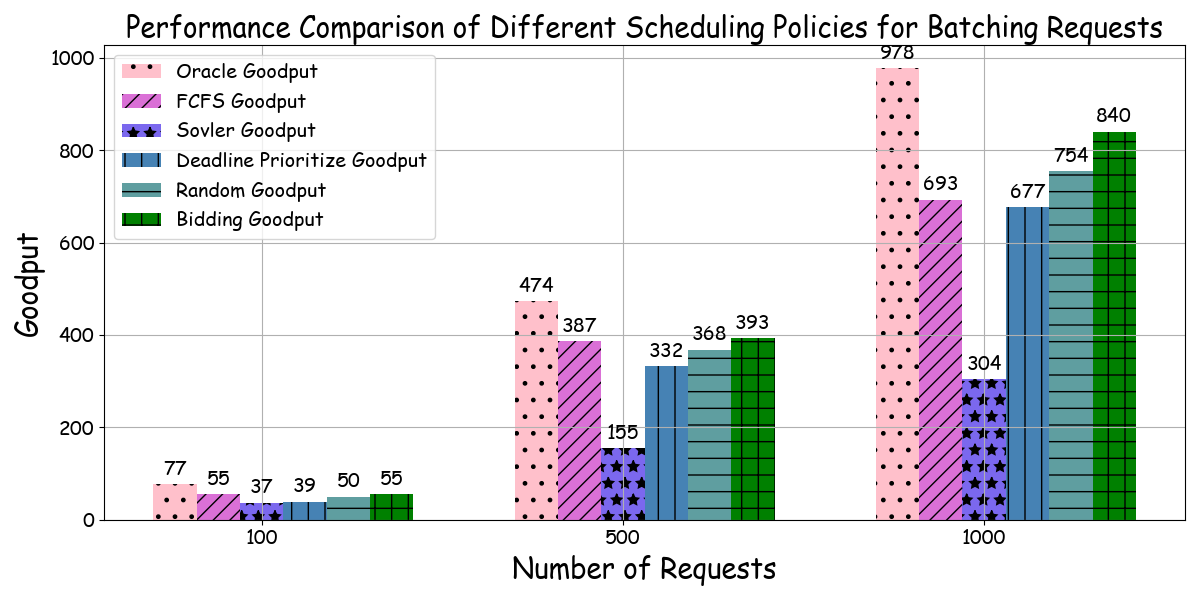
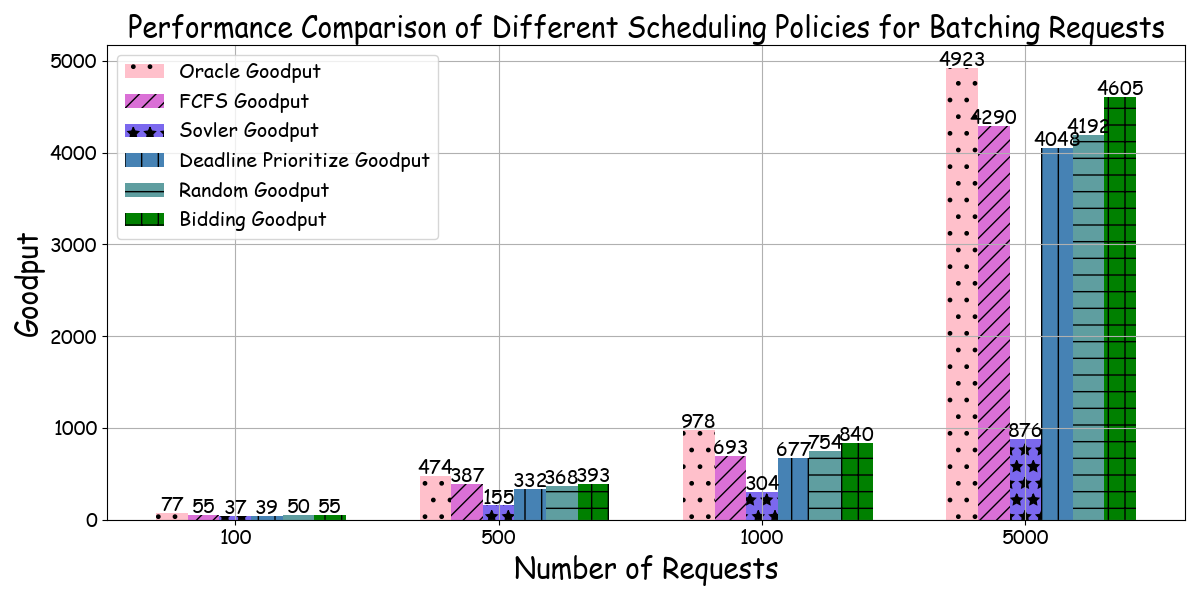
test more models

Changed region(s): [[0.0308, 0.03, 0.9867, 0.99], [0.0308, 0.09, 0.2775, 0.18], [0.0617, 0.84, 0.0925, 0.87]]

diff --git a/vllm_source/vllm/core/policy.py b/vllm_source/vllm/core/policy.py
@@ -93,12 +93,12 @@ class BiddingPolicy(Policy):
         return remaining_tokens / max(remaining_iterations, 1)
 
 class OfflineSolverPolicy(Policy):
-    def __init__(self, planning_window_size: int = 10000, max_batch_size: int = 16, reserve: int = 0):
+    def __init__(self, planning_window_size: int = 3000, max_batch_size: int = 16, reserve: int = 0):
         self.planning_window_size = planning_window_size
         self.max_batch_size = max_batch_size
         self.solved_priorities: Dict[int, float] = {}
         self.start = None
-        self.inference_time = 0.0347
+        self.inference_time = 1
     
     def solve_and_assign_priorities(self, now: float, seq_groups: Deque[SequenceGroup]):
         """Solve the optimization problem and assign priorities based on the solution."""
@@ -118,8 +118,10 @@ class OfflineSolverPolicy(Policy):
             # Create a new Gurobi model
             #model = gp.Model("OnlineScheduler")
             model.Params.LogToConsole = 0
-            model.setParam('LogFile', 'online.solver')
-            model.Params.Presolve = -1
+            model.setParam('LogFile', 'offline.solver')
+            model.Params.Presolve = 1  # Enable presolve
+            model.setParam('Method', 1)  # Try dual simplex
+            model.setParam('Heuristics', 0.1) 
 
             # Decision variables
             x = model.addVars(N, T, vtype=gp.GRB.BINARY, name="x")
@@ -195,7 +197,7 @@ class OfflineSolverPolicy(Policy):
         return priorities
     
 class OnlineSolverPolicy(Policy):
-    def __init__(self, planning_window_size: int = 20, max_batch_size: int = 16, reserve: int = 0):
+    def __init__(self, planning_window_size: int = 3, max_batch_size: int = 16, reserve: int = 0):
         self.planning_window_size = planning_window_size
         self.max_batch_size = max_batch_size
         self.reserve = reserve
@@ -233,7 +235,8 @@ class OnlineSolverPolicy(Policy):
                 b = self.max_batch_size
 
                 # Objective: maximize the number of completed sequences plus sum of request processing
-                objective = gp.quicksum(finished[i] for i in range(N)) + gp.quicksum(gp.quicksum(x[i, t] for t in range(T)) for i in range(N))
+                objective = gp.quicksum(finished[i] for i in range(N)) 
+                #+ gp.quicksum(gp.quicksum(x[i, t] for t in range(T)) for i in range(N))
                 model.setObjective(objective, gp.GRB.MAXIMIZE)
 
                 # Constraints

diff --git a/results/visualize/models.py b/results/visualize/models.py
@@ -1,0 +1,47 @@
+import matplotlib.pyplot as plt
+
+# Define new data based on your table
+models = ["deepseek-llm-7b-base", "Llama-2-13b-chat-hf", "Qwen1.5-14B", "deepseek-llm-67b-chat", "Llama-3-70B"]
+oracle = [978, 978, 978, 978, 978]
+fcfs = [936, 693, 693, 335, 335]
+deadline = [908, 677, 640, 329, 335]
+random = [941, 754, 719, 337, 355]
+bidding = [961, 840, 819, 467, 557]
+
+# Create the plot
+plt.rcParams['font.family'] = 'Comic Sans MS'
+fig, ax = plt.subplots(figsize=(12, 6))
+
+# Bar positions
+bar_width = 0.15
+index = range(len(models))
+
+# Bars
+bars1 = plt.bar(index, oracle, bar_width, color='pink', hatch='-', label='Oracle Goodput')
+bars2 = plt.bar([i + bar_width for i in index], fcfs, bar_width, color='orchid', hatch='/', label='FCFS Goodput')
+bars3 = plt.bar([i + bar_width*2 for i in index], deadline, bar_width, color='steelblue', hatch='+', label='Deadline Goodput')
+bars4 = plt.bar([i + bar_width*3 for i in index], random, bar_width, color='cadetblue', hatch='.', label='Random Goodput')
+bars5 = plt.bar([i + bar_width*4 for i in index], bidding, bar_width, color='green', label='Bidding Goodput')
+
+# Add text labels on the bars
+for i, v in enumerate(oracle):
+    plt.text(i, v + 10, str(v), ha='center', fontsize=10)
+for i, v in enumerate(fcfs):
+    plt.text(i + bar_width, v + 10, str(v), ha='center', fontsize=10)
+for i, v in enumerate(deadline):
+    plt.text(i + bar_width*2, v + 10, str(v), ha='center', fontsize=10)
+for i, v in enumerate(random):
+    plt.text(i + bar_width*3, v + 10, str(v), ha='center', fontsize=10)
+for i, v in enumerate(bidding):
+    plt.text(i + bar_width*4, v + 10, str(v), ha='center', fontsize=10)
+
+# Labels and titles
+plt.xlabel('Models', fontsize=16)
+plt.ylabel('Goodput', fontsize=16)
+plt.title('Performance Comparison of Different Scheduling Policies for Batching Requests', fontsize=16)
+plt.xticks([i + bar_width*2 for i in index], models, fontsize=12)
+plt.yticks(fontsize=12)
+plt.legend(loc='upper right', bbox_to_anchor=(1.0, 0.95), fontsize=12)
+plt.tight_layout()
+plt.grid()
+plt.savefig("goodput_comparison_models.png")

diff --git a/results/visualize/scaling.py b/results/visualize/scaling.py
@@ -1,0 +1,50 @@
+import matplotlib.pyplot as plt
+
+# Data
+requests = [100, 500, 1000, 5000]
+oracle_goodput = [77, 474, 978, 4923]
+fcfs_goodput = [55, 387, 693, 4290]
+deadline_goodput = [39, 332, 677, 4048]
+random_goodput = [50, 368, 754, 4192]
+bidding_goodput = [55, 393, 840, 4605]
+
+# Create the plot
+plt.rcParams['font.family'] = 'Comic Sans MS'
+fig, ax = plt.subplots(figsize=(12, 6))
+
+# Plot lines
+plt.plot(requests, oracle_goodput, color='pink', marker='o', label='Oracle Goodput')
+plt.plot(requests, fcfs_goodput, color='orchid', marker='*', label='FCFS Goodput')
+plt.plot(requests, deadline_goodput, color='steelblue', marker='^', label='Deadline Prioritize Goodput')
+plt.plot(requests, random_goodput, color='cadetblue', marker='+', label='Random Goodput')
+plt.plot(requests, bidding_goodput, color='green', marker='x', label='Bidding Goodput')
+
+# Adding text labels for the last point of each series
+# Adjust position based on the context of each line
+label_offset = 50
+horizontal_positions = [50, -50, 100, -100, 50]  # Positive for right, negative for left adjustments
+
+# Draw labels near the last point but adjust positions to avoid crowding
+for i, (label, hp_offset) in enumerate(zip(
+    [oracle_goodput, fcfs_goodput, deadline_goodput, random_goodput, bidding_goodput],
+    horizontal_positions
+)):
+    last_x = requests[-1]
+    last_y = label[-1]
+    # Conditional horizontal adjustment to position labels more clearly
+    if hp_offset > 0:
+        ha = 'left'
+    else:
+        ha = 'right'
+    plt.text(last_x + hp_offset, last_y, str(last_y), ha=ha, va='center', fontsize=14)
+
+# Labels and titles
+plt.xlabel('Number of Requests', fontsize=20)
+plt.ylabel('Goodput', fontsize=20)
+plt.title('Performance Comparison of Different Scheduling Policies for Batching Requests', fontsize=20)
+plt.xticks(requests, fontsize=14)
+plt.yticks(fontsize=14)
+plt.legend(fontsize=14)
+plt.grid(True)
+plt.tight_layout()
+plt.savefig("scaling-llama2-13b-chat-hf.png")

diff --git a/run_vllm.py b/run_vllm.py
@@ -9,9 +9,21 @@ import sys
 import numpy as np
 from typing import List, Union, Optional
 
-model_name = '/data/public_models/huggingface/meta-llama/Llama-2-13b-chat-hf'
+#'/data/public_models/huggingface/meta-llama/Llama-2-13b-chat-hf'
+#'/data/public_models/huggingface/deepseek-ai/deepseek-llm-7b-base' 
+#'/data/public_models/huggingface/meta-llama/Meta-Llama-3-8B'  
+#'/data/public_models/huggingface/Qwen/Qwen1.5-14B'
+#'/data/public_models/huggingface/meta-llama/Meta-Llama-3-70B-Instruct'
+#'/data/public_models/huggingface/Qwen/Qwen1.5-14B'
+#'/data/public_models/Llama-3-70B'
+#'/data/public_models/huggingface/deepseek-ai/deepseek-llm-67b-chat'
+model_name = '/data/public_models/huggingface/Qwen/Qwen1.5-14B'
 sys.path.append('/data/jiawei_li/GoodSpeed/vllm_source')
 from vllm import LLM, SamplingParams, RequestOutput
+
+import ray
+runtime_env = {"env_vars": {"PYTHONPATH": "/data/jiawei_li/GoodSpeed/vllm_source"}}
+ray.init(runtime_env=runtime_env)
 
 nltk.download('brown')
 brown_words = brown.words()
@@ -56,14 +68,13 @@ burst_duration = 0.1  # Each burst lasts for 0.1 seconds
 burst_interval = 0.4  # Bursts occur every 0.4 seconds
 
 num_requests = 1000
-input_length = 128
 brown_text = ' '.join(brown_words)
-prompts = [brown_text[(i-1)*input_length:i*input_length] for i in range(num_requests)]
+prompts = [brown_text.split('.')[i] for i in range(num_requests)]
 sampling_params = SamplingParams(temperature=0, top_p=0.95)
 goodput = 0
 current_time = time.time()
 arrival_times = poisson_arrival_times_with_bursts(rate, num_requests, current_time, burst_rate, burst_duration, burst_interval)
-llm = LLM(model=model_name, trust_remote_code=True, max_num_seqs=16)
+llm = LLM(model=model_name, trust_remote_code=True, max_num_seqs=16) #tensor_parallel_size=4)
 outputs = llm.generate(prompts=prompts, sampling_params=sampling_params, arrivals=arrival_times)
 
 for output in outputs:

diff --git a/vllm_source/vllm/core/scheduler.py b/vllm_source/vllm/core/scheduler.py
@@ -269,7 +269,7 @@ class Scheduler:
         self.lora_config = lora_config
         print('=====================')
         print("chunked_prefill_enabled:", self.scheduler_config.chunked_prefill_enabled)
-        self.default_policy = PolicyFactory.get_policy(policy_name="solver")
+        self.default_policy = PolicyFactory.get_policy(policy_name="bidding")
 
         if self.scheduler_config.chunked_prefill_enabled:
             self.prompt_limit = self.scheduler_config.max_model_len
@@ -651,6 +651,7 @@ class Scheduler:
 
         leftover_waiting_sequences: Deque[SequenceGroup] = deque()
         now = time.time()
+        #waiting_queue = PolicyFactory.get_policy(policy_name="fcfs").sort_by_priority(now, waiting_queue)
         waiting_queue = self.default_policy.sort_by_priority(now, waiting_queue)
         #ids = [req.request_id for req in waiting_queue]
         #print("sorted waiting queue:", ids)
@@ -718,6 +719,8 @@ class Scheduler:
             if curr_loras is not None and lora_int_id > 0:
                 curr_loras.add(lora_int_id)
             waiting_queue.popleft()
+            if len(waiting_queue) > 0:
+                seq_group.metrics.price = seq_group.metrics.price + 1.0
             self._allocate_and_set_running(seq_group)
             seq_groups.append(
                 ScheduledSequenceGroup(seq_group=seq_group,

diff --git a/results/visualize/visualize.py b/results/visualize/visualize.py
@@ -1,13 +1,13 @@
 import matplotlib.pyplot as plt
 
 # Data
-requests = [100, 500, 1000]
-oracle_goodput = [77, 474, 978]
-fcfs_goodput = [55, 387, 693]
-solver_goodput = [37, 155, 304]
-deadline_goodput = [39, 332, 677]
-random_goodput = [50, 368, 754]
-bidding_goodput = [55, 393, 840]
+requests = [100, 500, 1000, 5000]
+oracle_goodput = [77, 474, 978, 4923]
+fcfs_goodput = [55, 387, 693, 4290]
+solver_goodput = [37, 155, 304, 876]
+deadline_goodput = [39, 332, 677, 4048]
+random_goodput = [50, 368, 754, 4192]
+bidding_goodput = [55, 393, 840, 4605]
 
 # Create the plot
 plt.rcParams['font.family'] = 'Comic Sans MS'

diff --git a/vllm_source/vllm/sequence.py b/vllm_source/vllm/sequence.py
@@ -106,6 +106,7 @@ class RequestMetrics:
     tokens: int = 10
     workload_type: str = "search"  # Can be 'search', 'chatbox', or 'batch_analysis'
     deadline: Optional[float] = field(init=False)
+    price: float = 0.0
 
     def __post_init__(self):
         self.workload_type = random.choice(["search", "chatbox", "batch_analysis"])

diff --git a/results/result.md b/results/result.md
@@ -1,3 +1,12 @@
+### Performance Comparison on Different Models (prefills+decodes, 1000 requests)
+| Model                   | GPU             | Request Num | Oracle | FCFS  | Solver | Deadline | Random | Bidding |
+|-------------------------|-----------------|-------------|--------|-------|--------|----------|--------|---------|
+| deepseek-llm-7b-base    | 1 Nvidia A100   | 1000        | 978    | 936   | 342    | 908      | 941    | 961     |
+| Llama-2-13b-chat-hf     | 1 Nvidia A100   | 1000        | 978    | 693   | 304    | 677      | 754    | 840     |
+| Qwen1.5-14B             | 1 Nvidia A100   | 1000        | 978    | 693   |        | 640      | 719    | 819     |
+| deepseek-llm-67b-chat   | 4 Nvidia A100   | 1000        | 978    | 335   | 290    | 329      | 337    | 467     |
+| Llama-3-70B             | 4 Nvidia A100   | 1000        | 978    | 335   | 308    | 335      | 355    | 557     |
+
 ### Performance Comparison of Policies (solver only in decodes, window=10)
 | request_num | oracle | fcfs | solver | deadline | random | bidding |
 |-------------|--------|------|--------|----------|--------|---------|
@@ -5,12 +14,16 @@
 | 500         | 474    | 387  | 192    | 375      | 363    | 361     |
 | 1000        | 978    | 693  | 335    | 636      | 763    | 680     |
 
-### Performance Comparison of Policies (solver only in prefills + decodes, window=100)
-| request_num | oracle | fcfs | solver | deadline | random | bidding |
-|-------------|--------|------|--------|----------|--------|---------|
-| 100         | 77     | 55   | 37     | 39       | 50     | 55      |
-| 500         | 474    | 387  | 155    | 332      | 368    | 393     |
-| 1000        | 978    | 693  | 304    | 677      | 754    | 840     |
+### Performance Comparison of Policies (solver only in prefills + decodes, window=10)
+- **Model**: Llama-2-13b-chat-hf
+| request_num     | oracle | fcfs  | solver  | deadline | random | bidding |
+|-----------------|--------|-------|---------|----------|--------|---------|
+| 100             | 77     | 55    | 37      | 39       | 50     | 55      | 
+| 500             | 474    | 387   | 155     | 332      | 368    | 396     | 
+| 1000            | 978    | 693   | 304     | 677      | 754    | 840     |
+| 5000            | 4923   | 4290  | 876     | 4048     | 4192   | 4605    |
+| Timeline(h:m:s) | -      | 34:10 | 1:33:17 | 34:17    | 34:17  | 34:00   | 
+ 
 
 ### Workload Configuration
 | Workload Type   | Proportion | Deadline          | Max Token |
@@ -19,8 +32,16 @@
 | Chatbox         | 33%        | 0.2 * max_token=10| 50        |
 | Batch Analysis  | 33%        | U(300, 3600)      | 500       |
 
-## Request Scheduling Metrics
+### Summary Statistics of Prompt Lengths
+- **Minimum length:** 1
+- **Maximum length:** 614
+- **Mean length:** 90.5002
+- **Standard deviation of lengths:** 73.17146173558722
+- **Median:** 80.5
+- **90% Percentile:** 188.0
+- **95% Percentile:** 223.0
 
+### Request Scheduling Metrics
 - **Number of Requests**: 100
 - **Penalty**: True
 - **Batch Size**: 16
